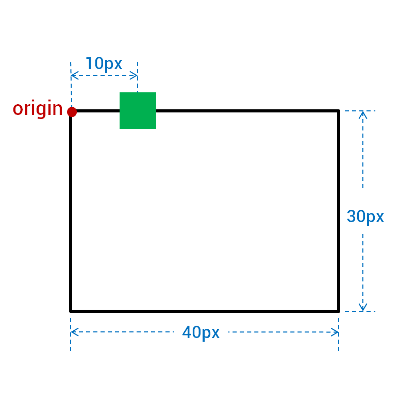
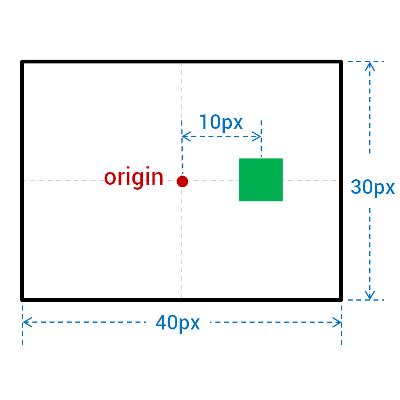
[css-round-display] Add an example when polar-origin is auto

diff --git a/css-round-display/Overview.html b/css-round-display/Overview.html
@@ -645,6 +645,29 @@ If <a class="property" data-link-type="propdesc" href="https://drafts.csswg.org/
      <dd> Computes to 50% (left 50%) for the horizontal position if the horizontal position is not otherwise specified, or 50% (top 50%) for the vertical position if it is. 
     </dl>
     <p></p>
+    <div class="example" id="example-33ef7409">
+     <a class="self-link" href="#example-33ef7409"></a> This example shows how auto of polar-origin is calculated differently depending on which coordinate system is used for positioning elements. 
+<pre>#item1 {
+  polar-origin: auto;
+  polar-distance: 10px;
+  polar-angle: 90deg;
+}
+</pre>
+     <div style="width: 400px; text-align: center">
+       <img src="images/polar_origin_a.png" style="width: 300px; text-align: center"> 
+      <p class="caption">"polar-origin: auto" is "polar-origin: center"</p>
+     </div>
+      <br><br> 
+<pre>#item2 {
+  polar-origin: auto;
+  left: 10px;
+}
+</pre>
+     <div style="width: 400px; text-align: center">
+       <img src="images/polar_origin_b.png" style="width: 300px; text-align: center"> 
+      <p class="caption">"polar-origin: auto" is "polar-origin: top left"</p>
+     </div>
+    </div>
     <p class="issue" id="issue-e8940ab4"><a class="self-link" href="#issue-e8940ab4"></a> As it’s available to specify the point of origin for polar coordinates, properties such as <a class="property" data-link-type="propdesc" href="https://drafts.csswg.org/css2/box.html#propdef-margin">margin</a>, <a class="property" data-link-type="propdesc" href="https://drafts.csswg.org/css2/box.html#propdef-padding">padding</a> would work different from the conventional coordinate system. We need different approaches to define those properties which are related to layout. </p>
     <p class="issue" id="issue-e162139b"><a class="self-link" href="#issue-e162139b"></a> It becomes to use polar positioning no matter which value of <a class="property" data-link-type="propdesc" href="https://drafts.csswg.org/css-position-3/#propdef-position">position</a> property has,  polar-origin would be used independently from polar positioning.
 For this reason, an alternative naming without the <code>polar-</code> prefix for <a class="property" data-link-type="propdesc" href="#propdef-polar-origin">polar-origin</a> is needed. </p>
